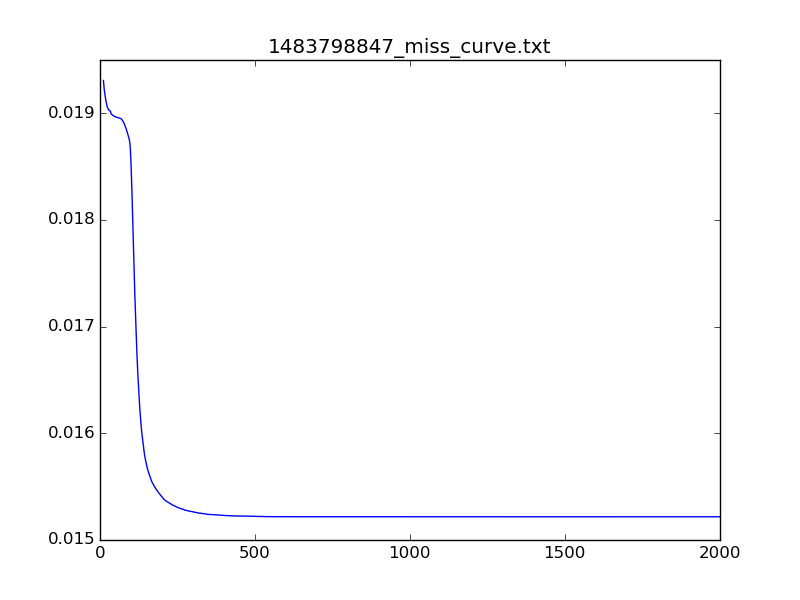
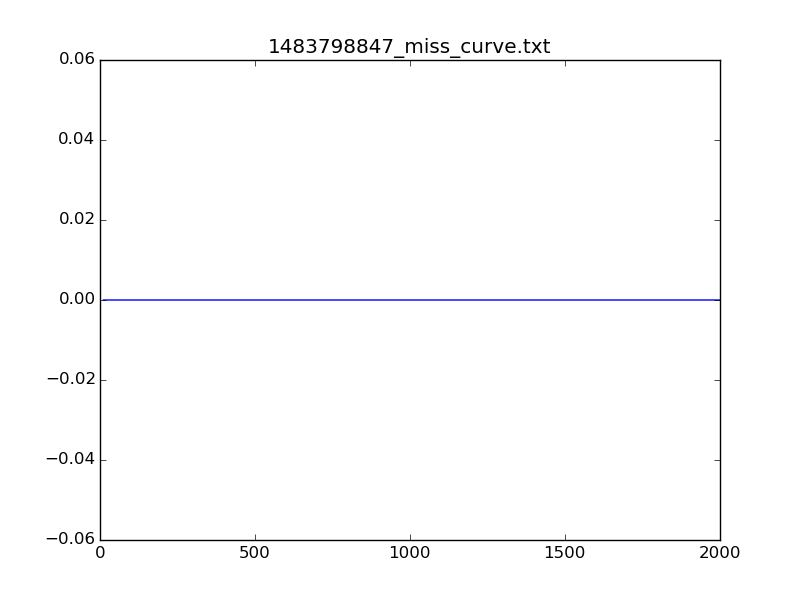
do more exp

diff --git a/aet_tool/control/draw_miss_curve.py b/aet_tool/control/draw_miss_curve.py
@@ -57,7 +57,7 @@ def read_miss_curve_file(xaxis, yaxis, name):
 				if tot > miss_curve_x_limit:
 					break
 				xaxis.append(tot)
-				if (float(line) < 0.001):
+				if (float(line) > 0.001):
 					yaxis.append(0.0)
 				else:	
 					yaxis.append(float(line))
